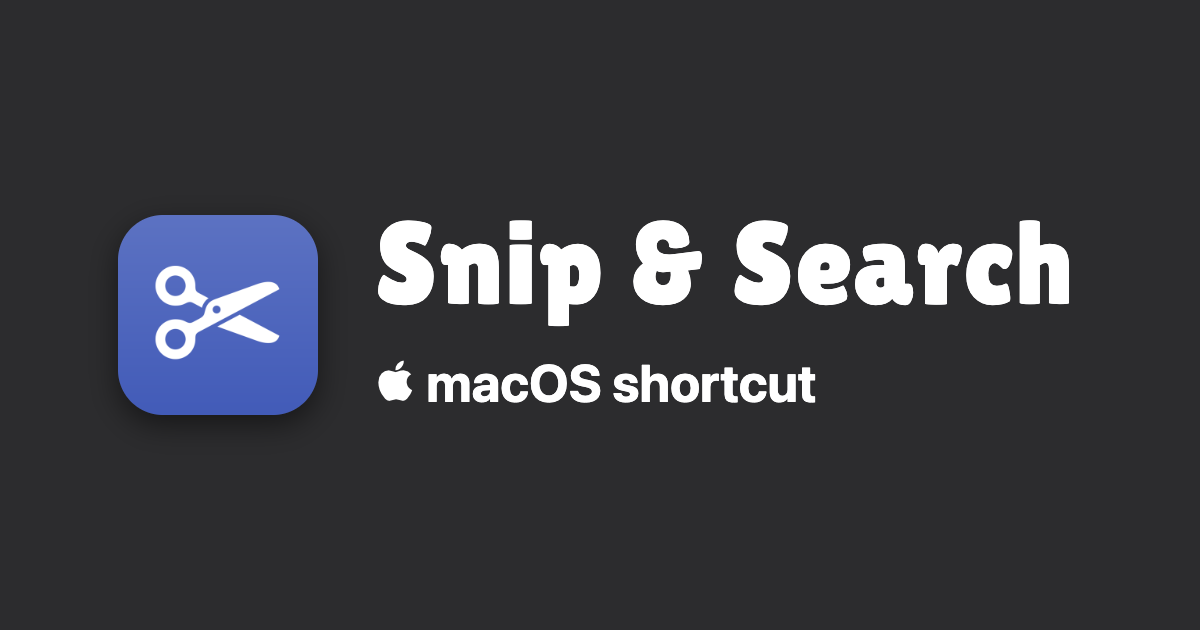
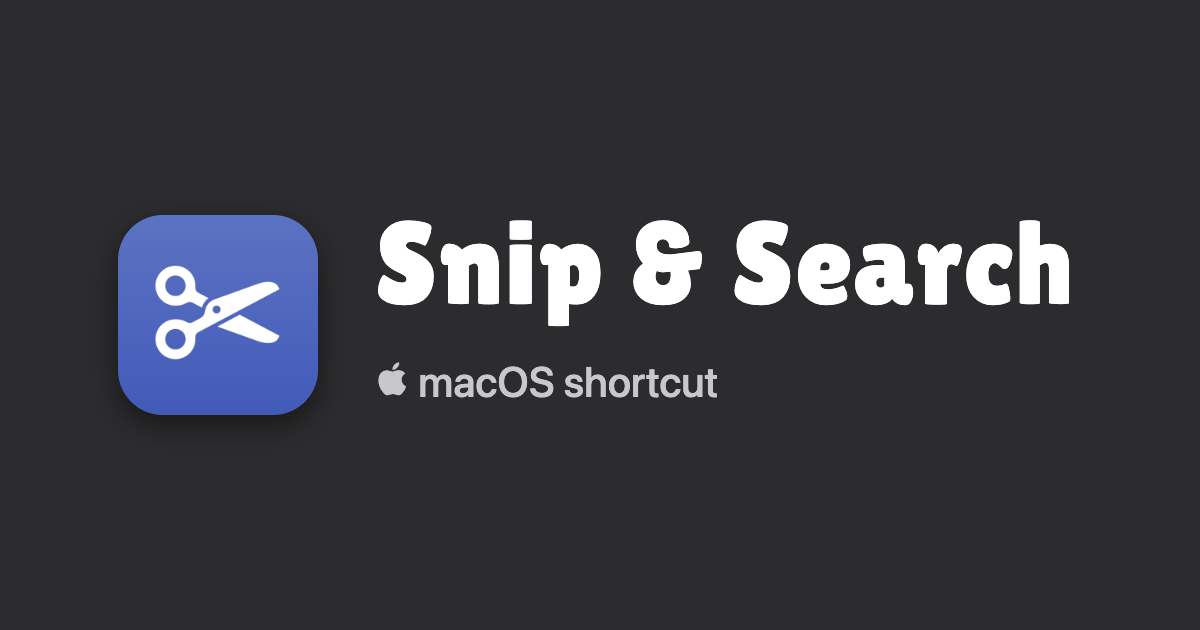
One quiet secondary style for "macOS shortcut" and the "Free" line
Both now share 15px medium in light grey (#c7c7cc, ~9:1), instead of two
near-duplicate white styles, so the wordmark and the button lead the
header. The link-preview card matches.

Claude-Session: https://claude.ai/code/session_01KeDHaCGVo6TUvr9Zcw6bTd

Changed region(s): [[0.3083, 0.573, 0.6783, 0.6635]]

diff --git a/style.css b/style.css
@@ -135,13 +135,20 @@ header .sectionContent {
 	overflow: visible;
 }
 
-/* Title + platform label sit tight as one group; the button sits well below
-   it, near the bottom of the header. */
+/* Secondary text in the header ("macOS shortcut" and the "Free" line):
+   one shared quiet style in light grey, so the wordmark and the button are
+   the main elements. (#c7c7cc is Apple's secondary label grey; ~9:1 on the
+   charcoal.) */
+#macSubtitle,
+#ctaNote {
+	font-size: 0.9375rem;
+	font-weight: 500;
+	color: #c7c7cc;
+}
+
+/* Sits tight under the title as one group; the button sits well below. */
 #macSubtitle {
 	margin-top: 0.25rem;
-	font-size: 1.0625rem;
-	font-weight: 600;
-	letter-spacing: 0.01em;
 }
 
 #appleLogo {
@@ -255,11 +262,9 @@ a:hover {
 	outline-offset: 3px;
 }
 
-/* Small reassurance under the button. */
+/* Small reassurance under the button (style shared with #macSubtitle). */
 #ctaNote {
 	margin-top: 0.875rem;
-	font-size: 0.9375rem;
-	font-weight: 500;
 }
 
 ul,
